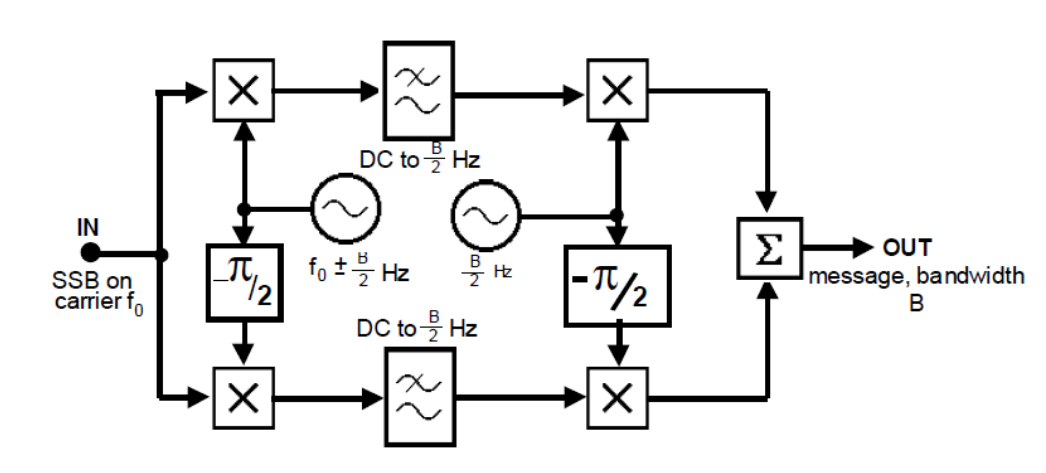
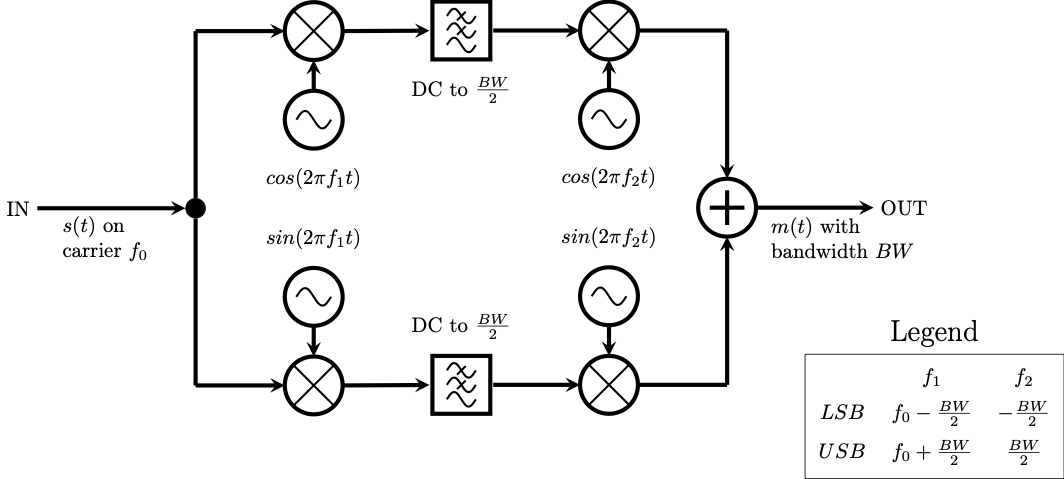
Added Overleaf SSB figures

diff --git a/_lab2/SSB-receiver.md b/_lab2/SSB-receiver.md
@@ -98,12 +98,12 @@ The first step in building a receiver is to use a channel filter to pass the sig
 
 When using real signals, this first shift and low-pass filtering involves all of the highlighted blocks in the diagram below.
 
-  ![part1_weaver-real-block-diagram-highlighted-first-half.png](./figures/part1_weaver-real-block-diagram-highlighted-first-half.png)<br>
+  ![part1_weaver-real-block-diagram-mix1.png](./figures/part1_weaver-real-block-diagram-mix1.png)<br>
   __*Signal shifting with a filter in the real domain*__
 
 This is far simpler when operating in the complex domain, as illustrated by the *equivalent circuit* below.
 
-  ![part1_weaver-complex-block-diagram-highlighted-first-half.png](./figures/part1_weaver-complex-block-diagram-highlighted-first-half.png)<br>
+  ![part1_weaver-complex-block-diagram-mix1.png](./figures/part1_weaver-complex-block-diagram-mix1.png)<br>
   __*Signal shifting with a filter in the complex domain*__
 
 - In GRC, the *Frequency Xlating FIR Filter* performs both of these operations (the frequency shift down to zero, as well as the low pass filter).
@@ -163,12 +163,12 @@ This list indicates the minimum number of arguments required for the filter to b
 
 Recall the original block diagram of Weaver's SSB demodulator. The signal has been shifted down to zero, low-pass filtered, and decimated. Now the signal needs to be shifted off of zero. The highlighted portion of the block diagram below shows the real multiplication *as well as* the necessary addition of the I and Q streams.
 
-  ![part1_weaver-real-block-diagram-highlighted-second-half.png](./figures/part1_weaver-real-block-diagram-highlighted-second-half.png)<br>
+  ![part1_weaver-real-block-diagram-mix2.png](./figures/part1_weaver-real-block-diagram-mix2.png)<br>
   __*Second frequency shift in the real domain*__
 
 Once again, this is simpler using complex signals. The highlighted portion of the block diagram below shows this.
 
-  ![part1_weaver-complex-block-diagram-highlighted-second-half.png](./figures/part1_weaver-complex-block-diagram-highlighted-second-half.png)<br>
+  ![part1_weaver-complex-block-diagram-mix2.png](./figures/part1_weaver-complex-block-diagram-mix2.png)<br>
   __*Second frequency shift in the complex domain*__
 
 > Note that no addition is necessary, since the complex multiplication dealt with both the I and the Q streams.
@@ -200,7 +200,13 @@ Once again, this is simpler using complex signals. The highlighted portion of th
 
 - Add an *Audio Sink* block with your chosen sample rate of 48 kHz to the output of the *Multiply Const* block. **Notice the red signal path!** The *Audio Sink* only accepts floats, and the entire flowgraph to this point is using complex signals. Use a *Complex To Real* block in between the *Multiply Const* and the *Audio Sink* blocks.
 
-  > Considering the output of the *Multiply Const* block to be ***m(t)***, the *Complex To Real* block accepts ***m(t)*** as an argument and outputs ***Re{m(t)}***.
+  > Considering the output of the *Multiply Const* block to be ***m(t)***, the *Complex To Real* block accepts ***m(t)*** as an argument and outputs ***Re{m(t)}***. This operation takes place in the highlighted region of the next two block diagram.
+
+  ![part1_weaver-real-block-diagram-sum.png](./figures/part1_weaver-real-block-diagram-sum.png)<br>
+  __*Taking the real part of the signal in the real domain*__
+
+  ![part1_weaver-complex-block-diagram-sum.png](./figures/part1_weaver-complex-block-diagram-sum.png)<br>
+  __*Taking the real part of the signal in the complex domain*__
 
 - Execute the flowgraph to test your SSB receiver. You should now clearly hear a voice. Your flowgraph should look like the following figure.
 
@@ -209,7 +215,7 @@ Once again, this is simpler using complex signals. The highlighted portion of th
 
 ### Taking the real part of a complex signal
 
-Remember that taking the real part of the complex signal is the same thing as adding the negative frequencies! To illustrate this, add two *QT GUI Frequency Sinks*, one before and one after the *Complex To Real* block. Title them appropriately ("Complex (before)" and "Real (after)") and execute the flowgraph. It should look like the following image.
+Remember that taking the real part of the complex signal is the same thing as adding the negative frequencies! The last two block diagrams highlighted this. To check it yourself, add two *QT GUI Frequency Sinks*, one before and one after the *Complex To Real* block. Title them appropriately ("Complex (before)" and "Real (after)") and execute the flowgraph. It should look like the following image.
 
   ![part1_real-vs-complex-spectra.png](./figures/part1_real-vs-complex-spectra.png)<br>
   __*SSB complex vs real spectra*__
